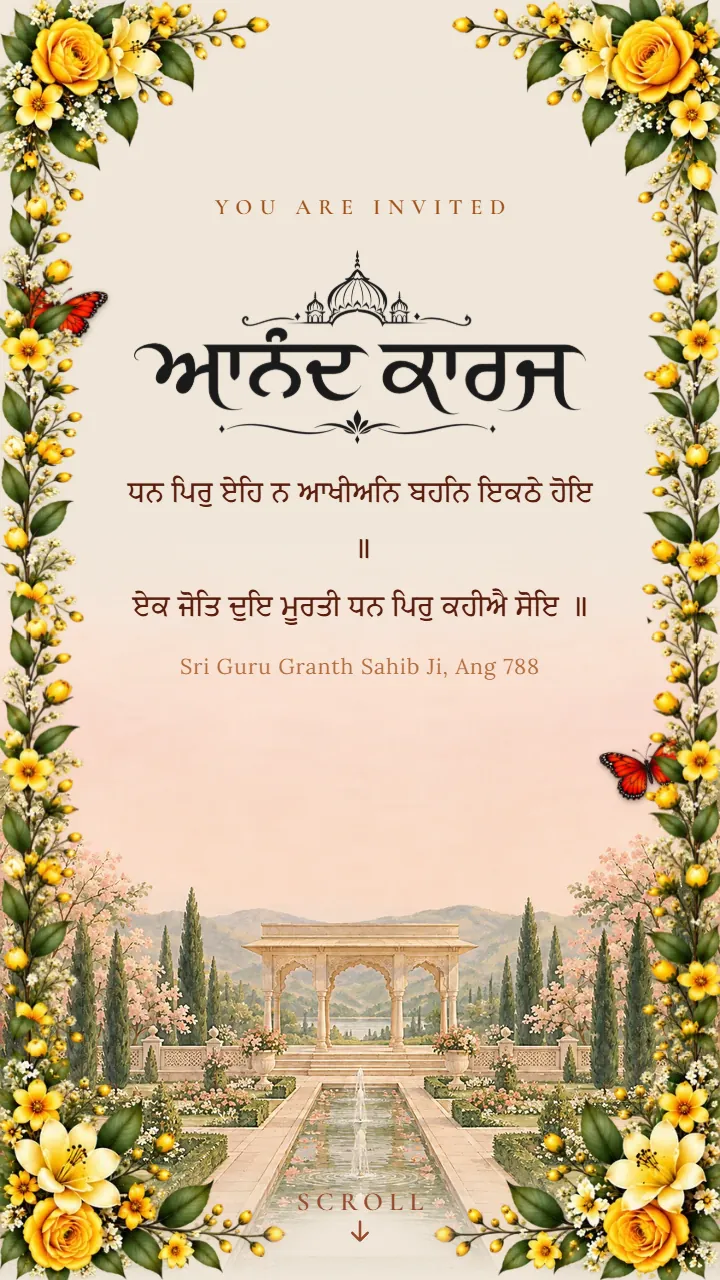
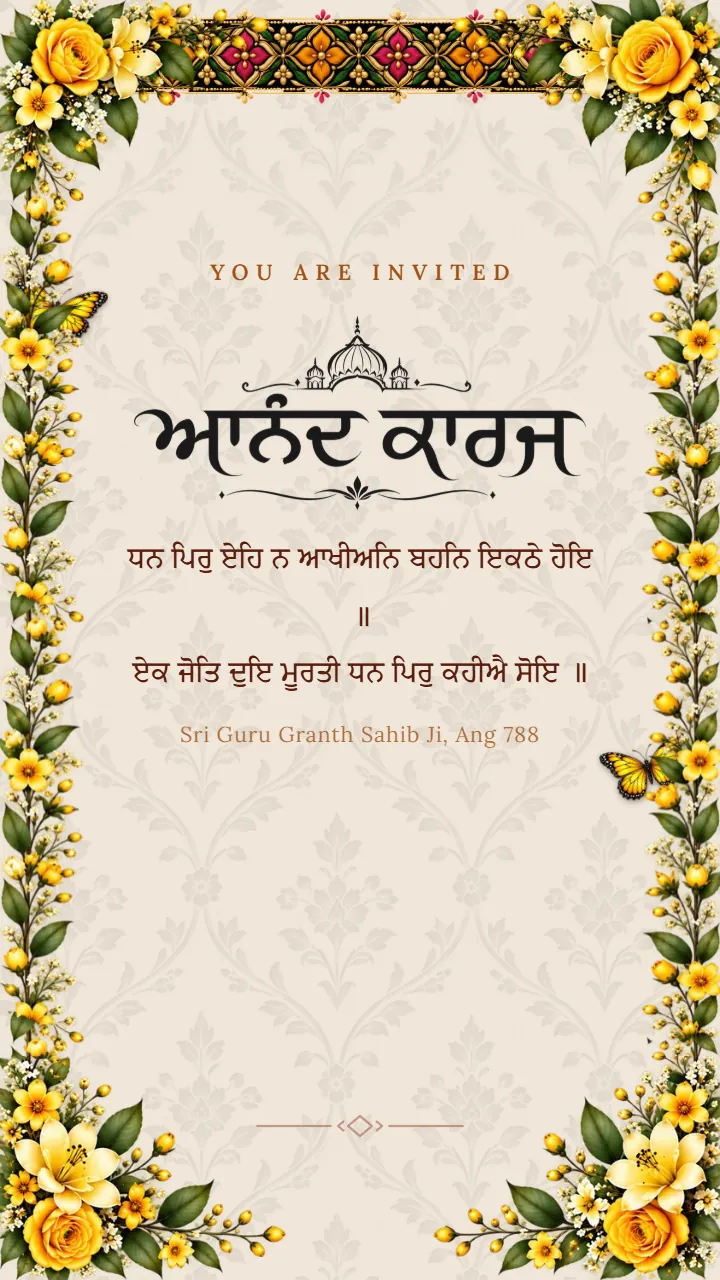
style(traditions): new look for Kesri Anand Karaj
No painting any more: the sand ground is woven with the jaal, a trellis of flowers, under the phulkari band, which now heads the card. The Khanda above the names and gold lotuses in the corners as before, in the yellow blossom frame (flowerGold) as before. Marigold petals fall as it opens and yellow butterflies fly, in place of rose petals and red butterflies; marigold garlands part the sections. The cover is the ivory gatefold (fold-unfold) instead of the envelope, and the names are in Lora (warm).

Gallery preview remade. Saved cards keep the look they were saved with.

diff --git a/lib/presets.ts b/lib/presets.ts
@@ -463,24 +463,29 @@ const PRESETS: readonly Preset[] = [
   {
     id: "kesri-anand-karaj",
     name: "Kesri Anand Karaj",
-    description: "Warm sand and saffron, the Khanda, lotuses and rose petals.",
+    description: "Saffron on sand, the phulkari band over a jaal weave, the Khanda and marigolds.",
     tradition: "sikh",
     settings: {
       paletteId: "sand",
       textPairId: "haldiSaffron",
       /* Sand's own accent is brown; the word-mark and the rules want kesri. */
       accentOverride: PALETTE_KESRI,
-      fontPairId: "royal",
+      fontPairId: "warm",
       density: "comfortable",
+      /* Yellow blossoms, the nearest of the flower frames to kesri. */
       borderStyle: "flowerGold",
       decorMotion: "float",
       decorIntensity: "subtle",
-      butterflies: "red",
+      butterflies: "yellow",
       leaves: false,
       petals: "open",
-      petalFlower: "rose",
-      coverAnimation: "envelope-seal",
-      ornaments: ["khanda", "lotus"],
+      petalFlower: "marigold",
+      /* No painting: the jaal, a trellis of flowers, is the ground. */
+      royalTexture: true,
+      royalTexturePattern: "jaal",
+      coverAnimation: "fold-unfold",
+      /* The phulkari band at the head, the Khanda above the names, gold lotuses in the corners. */
+      ornaments: ["kandaFloralBorder", "khanda", "lotus"],
       calligraphy: "anandKaraj",
       greetingIfNone: "ikOnkar",
       blessingIfNone: "anandBlessing",

diff --git a/templates/kesri-anand-karaj/config.ts b/templates/kesri-anand-karaj/config.ts
@@ -5,14 +5,16 @@ import type { TemplateConfig } from "@/templates/types";
 /**
  * The "kesri-anand-karaj" preset as a template: its look from lib/presets.ts, and
  * the colourways and type pairs a host may change it to. See presetTemplate.
+ *
+ * No painting: the jaal is the ground under the phulkari band, and marigold
+ * garlands part its sections, as marigolds fall when it opens.
  */
 export const KESRI_ANAND_KARAJ: TemplateConfig = presetTemplate({
   presetId: "kesri-anand-karaj",
   preview,
   ownPaletteLabel: "Saffron",
-  palettes: [
-    plain("ivory", "cream", "flowerIvory"),
-    plain("blush", "blush", "flowerBlush"),
-  ],
-  fontPairs: ["elegant", "regal"],
+  palettes: [plain("ivory", "cream"), plain("blush", "blush")],
+  fontPairs: ["elegant", "royal"],
+  scene: "off",
+  divider: "marigold",
 });
